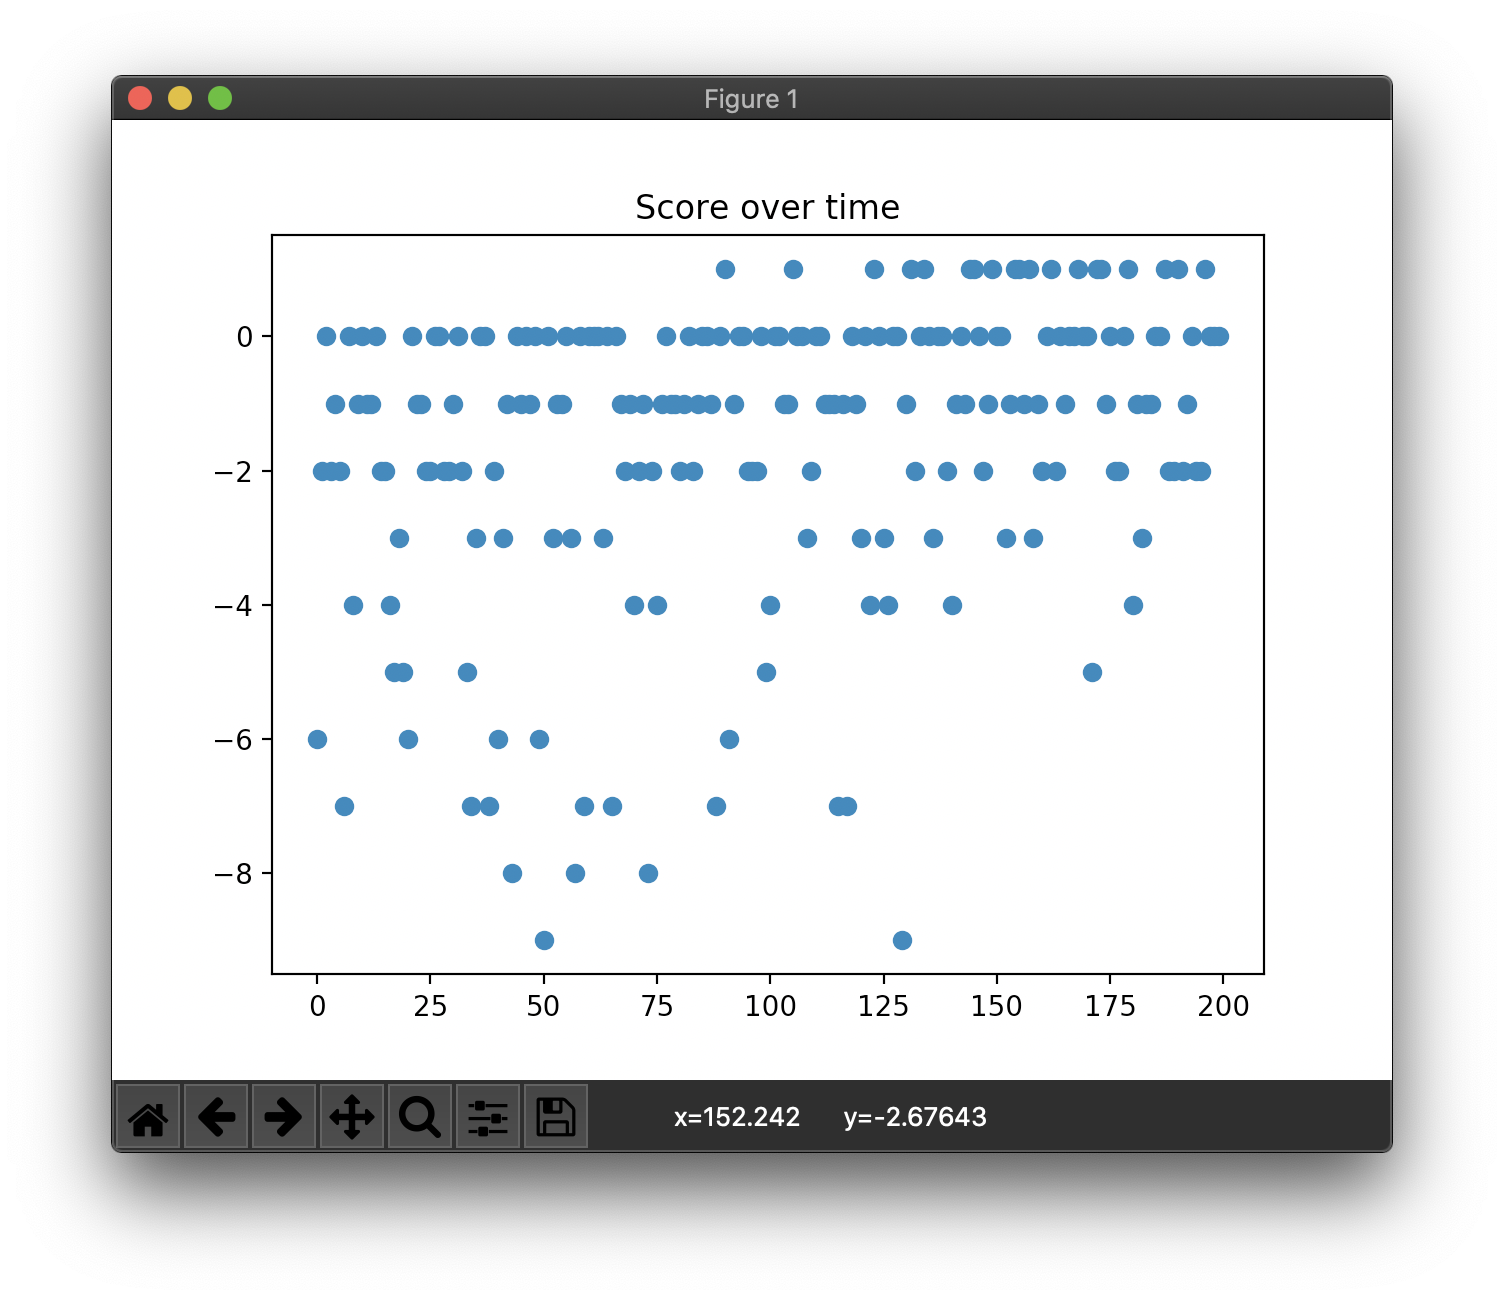
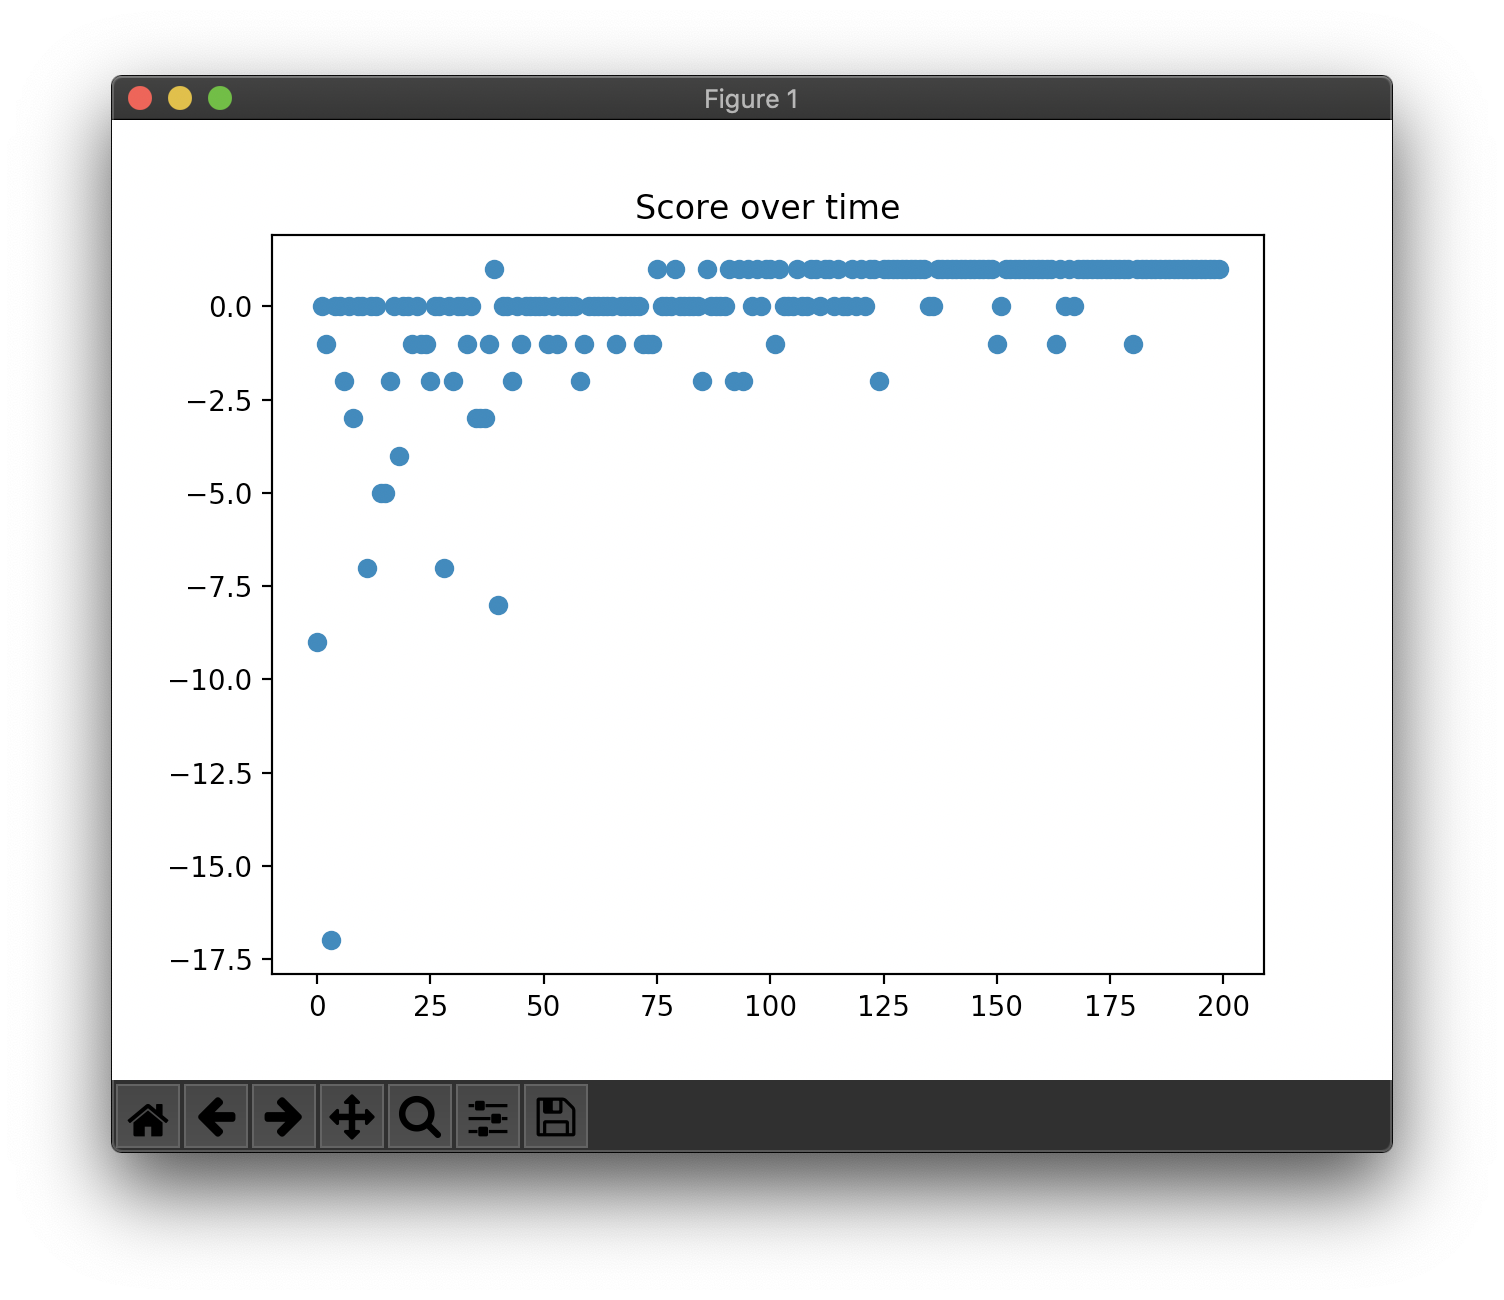
Update 3-DDQN

diff --git a/3-DDQN/src/agent.py b/3-DDQN/src/agent.py
@@ -97,8 +97,9 @@ class Agent:
             state, action, reward, next_state = exp
 
             q_values = self.Q.predict(self._one_hot_encoded(state))[0]
+            q_values_next = self.Q.predict(self._one_hot_encoded(next_state))[0]
 
-            selected_action = np.argmax(self.Q.predict(self._one_hot_encoded(next_state))[0])
+            selected_action = np.argmax(q_values_next)
             estimated_value = self.Q_target.predict(self._one_hot_encoded(next_state))[0][selected_action]
             q2 = reward + self.y * estimated_value
 

diff --git a/3-DDQN/README.md b/3-DDQN/README.md
@@ -17,51 +17,51 @@ Map:
 ## Result
 
 ```
-> Setting: Namespace(e=0.998, lr=0.001, r=200, s=100, y=0.95)
-(Episode:   199, Steps:    13)
-Score over time: -1.575
+> Setting: Namespace(e=0.989, lr=0.001, r=200, s=100, y=0.95)
+(Episode:   199, Steps:     9)
+Score over time: -0.12
 ```
 
 ![Gs](./images/Gs.png)
 
 ```
 Final Q-Table:
-array([[1.012, 1.102, 1.012, 1.103],
-       [1.104, 1.195, 1.012, 1.012],
-       [1.011, 1.103, 1.103, 0.905],
-       [0.91 , 1.014, 1.01 , 0.907],
-       [0.896, 0.999, 0.908, 0.808],
-       [0.803, 0.932, 0.911, 0.84 ],
-       [1.012, 1.195, 1.103, 1.196],
-       [1.103, 1.346, 1.103, 1.103],
-       [1.012, 1.196, 1.195, 1.013],
-       [0.902, 1.102, 1.106, 0.998],
-       [0.912, 1.104, 1.062, 0.928],
-       [0.807, 0.997, 1.023, 0.935],
-       [1.103, 1.347, 1.196, 1.346],
-       [1.196, 1.498, 1.196, 1.196],
-       [1.103, 1.347, 1.346, 1.104],
-       [1.013, 1.196, 1.196, 1.104],
-       [0.997, 1.208, 1.104, 0.997],
-       [0.934, 1.103, 1.109, 1.016],
-       [1.196, 1.499, 1.347, 1.499],
-       [1.346, 1.623, 1.347, 1.347],
-       [1.195, 0.772, 1.499, 1.196],
-       [1.104, 1.208, 1.347, 1.209],
-       [1.092, 2.375, 1.196, 1.131],
-       [0.972, 1.209, 1.207, 1.088],
-       [1.347, 1.624, 1.498, 1.623],
-       [1.498, 1.772, 1.499, 0.771],
-       [1.347, 1.902, 1.623, 1.208],
-       [1.196, 2.054, 0.773, 2.376],
-       [1.143, 1.49 , 1.253, 1.289],
-       [1.103, 2.017, 2.375, 1.209],
-       [1.499, 1.623, 1.623, 1.772],
-       [1.624, 1.772, 1.624, 1.902],
-       [0.771, 1.903, 1.772, 2.054],
-       [1.208, 2.053, 1.903, 2.209],
-       [2.376, 2.209, 2.053, 2.053],
-       [1.209, 2.053, 2.209, 2.053]])
+array([[0.727, 0.747, 0.731, 0.747],
+       [0.75 , 0.867, 0.733, 0.741],
+       [0.728, 0.726, 0.743, 0.733],
+       [0.75 , 0.822, 0.761, 0.728],
+       [0.727, 0.784, 0.787, 0.654],
+       [0.624, 0.74 , 0.739, 0.671],
+       [0.712, 0.857, 0.761, 0.869],
+       [0.741, 1.   , 0.758, 0.73 ],
+       [0.765, 0.848, 0.848, 0.801],
+       [0.702, 0.743, 0.78 , 0.696],
+       [0.712, 0.751, 0.804, 0.717],
+       [0.515, 0.722, 0.749, 0.719],
+       [0.808, 0.999, 0.858, 0.998],
+       [0.872, 1.108, 0.883, 0.843],
+       [0.817, 0.959, 0.948, 0.846],
+       [0.802, 0.809, 0.831, 0.755],
+       [0.724, 0.642, 0.77 , 0.705],
+       [0.693, 0.712, 0.761, 0.68 ],
+       [0.924, 1.103, 0.979, 1.109],
+       [0.999, 1.221, 1.015, 0.98 ],
+       [0.92 , 0.317, 1.101, 0.808],
+       [0.778, 0.68 , 0.879, 0.649],
+       [0.785, 1.743, 1.031, 0.706],
+       [0.72 , 0.651, 0.608, 0.706],
+       [0.977, 1.23 , 1.108, 1.22 ],
+       [1.117, 1.311, 1.108, 0.312],
+       [0.986, 1.452, 1.185, 0.631],
+       [0.814, 1.508, 0.312, 1.736],
+       [0.757, 0.814, 0.667, 0.579],
+       [0.702, 1.506, 1.756, 0.835],
+       [1.102, 1.206, 1.259, 1.307],
+       [1.231, 1.311, 1.236, 1.445],
+       [0.314, 1.448, 1.316, 1.552],
+       [0.659, 1.549, 1.457, 1.646],
+       [1.757, 1.654, 1.57 , 1.549],
+       [1.411, 1.553, 1.669, 1.548]])
 Map:
 [['Start    ', 'Normal   ', 'Normal   ', 'Normal   ', 'Normal   ', 'Normal   '],
  ['Normal   ', 'Normal   ', 'Normal   ', 'Normal   ', 'Normal   ', 'Normal   '],
@@ -70,10 +70,10 @@ Map:
  ['Normal   ', 'Normal   ', 'Obstacle ', 'Obstacle ', 'Goal     ', 'Obstacle '],
  ['Normal   ', 'Normal   ', 'Normal   ', 'Normal   ', 'Normal   ', 'Normal   ']]
 Q-map:
-[['Right    ', 'Down     ', 'Down     ', 'Down     ', 'Down     ', 'Down     '],
- ['Right    ', 'Down     ', 'Down     ', 'Left     ', 'Down     ', 'Left     '],
- ['Down     ', 'Down     ', 'Down     ', 'Left     ', 'Down     ', 'Left     '],
- ['Right    ', 'Down     ', 'Left     ', 'Left     ', 'Down     ', 'Down     '],
+[['Down     ', 'Down     ', 'Left     ', 'Down     ', 'Left     ', 'Down     '],
+ ['Right    ', 'Down     ', 'Down     ', 'Left     ', 'Left     ', 'Left     '],
+ ['Down     ', 'Down     ', 'Down     ', 'Left     ', 'Left     ', 'Left     '],
+ ['Right    ', 'Down     ', 'Left     ', 'Left     ', 'Down     ', 'Up       '],
  ['Down     ', 'Down     ', 'Down     ', 'Right    ', 'Down     ', 'Left     '],
  ['Right    ', 'Right    ', 'Right    ', 'Right    ', 'Up       ', 'Left     ']]
 ```

diff --git a/README.md b/README.md
@@ -60,3 +60,4 @@ sh 0-Q-Table/run.sh
 - [ ] Using jupyter notebook.
 - [ ] More descriptions and references.
 - [ ] Removing unnecessary code duplications like `env.py`, `visualization.py` and `arguments.py`.
+- [ ] Referencing papers.
